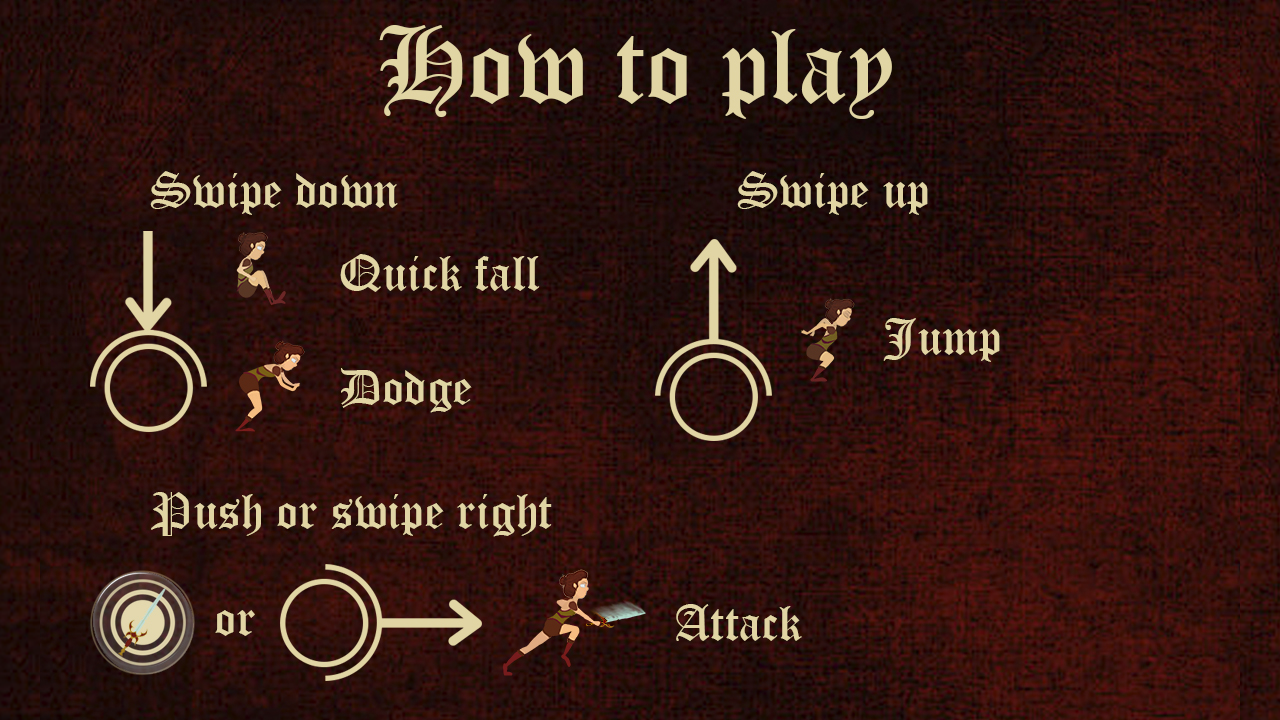
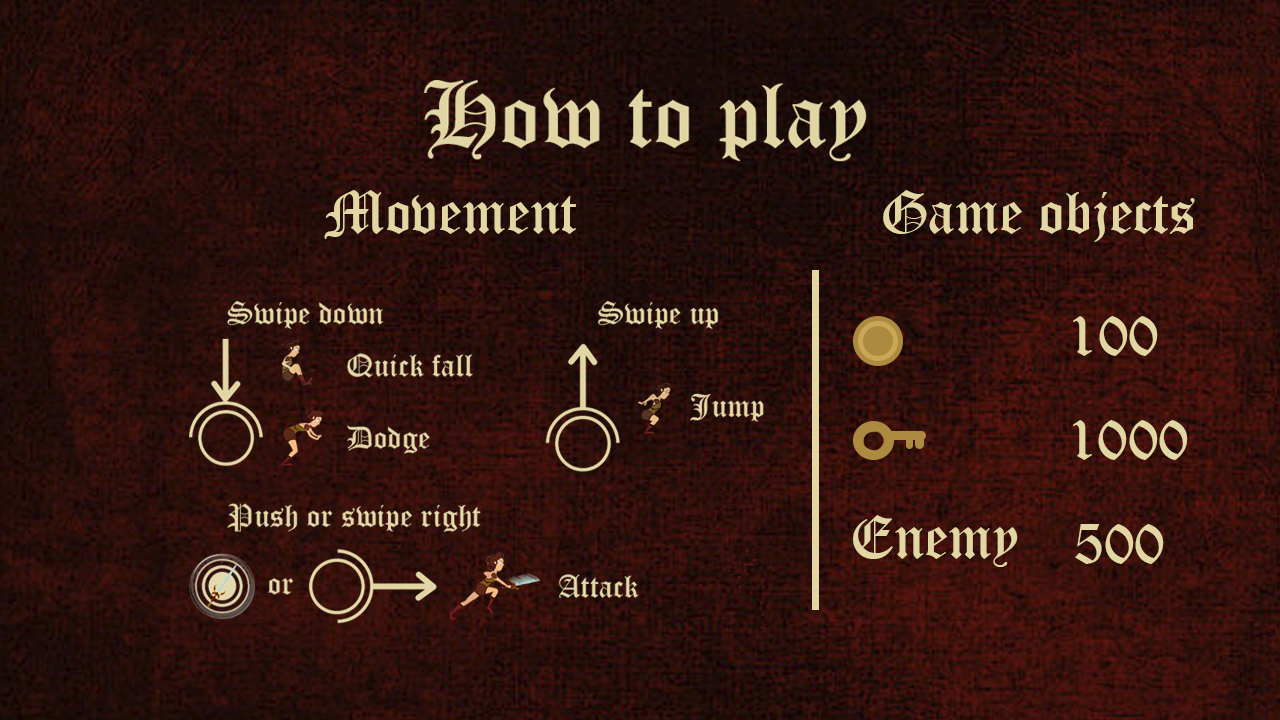
CHanged tutorial screen

diff --git a/core/src/mx/com/nullpointer/screens/TutorialScreen.java b/core/src/mx/com/nullpointer/screens/TutorialScreen.java
@@ -19,7 +19,6 @@ import mx.com.nullpointer.inanotherkingdom.Main;
 public class TutorialScreen extends GenericScreen {
     
     private Texture backgroundTexture;
-    private Texture bckgndTexture;
 
     private Stage tutorialStage;
 
@@ -36,7 +35,6 @@ public class TutorialScreen extends GenericScreen {
             }*/
 
         backgroundTexture = assetManager.get("background/howTo.png");
-        bckgndTexture = assetManager.get("background/menubg.png");
         tutorialStage = new Stage(view);
 
         //Botón Back
@@ -61,13 +59,14 @@ public class TutorialScreen extends GenericScreen {
     @Override
     public void render(float delta) {
         clearScreen();
+        //Projection matrix
+        batch.setProjectionMatrix(camera.combined);
         batch.begin();
-        batch.draw(bckgndTexture,0 ,0);
-        batch.draw(backgroundTexture,100 ,0);
+        batch.draw(backgroundTexture,0 ,0);
         batch.end();
         tutorialStage.draw();
         if(Gdx.input.isKeyJustPressed(Input.Keys.BACK))
-        {game.setScreen(new LoadingScreen(game, MENU));}
+        {game.setScreen(new LoadingScreen(game, LEVELS));}
 
     }
 
